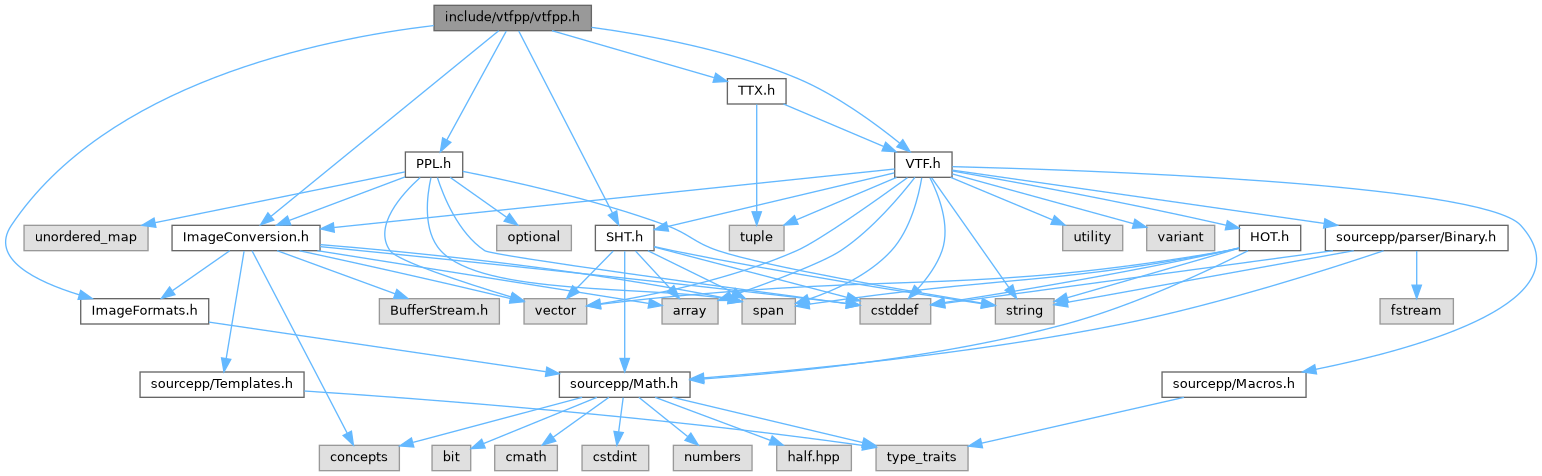
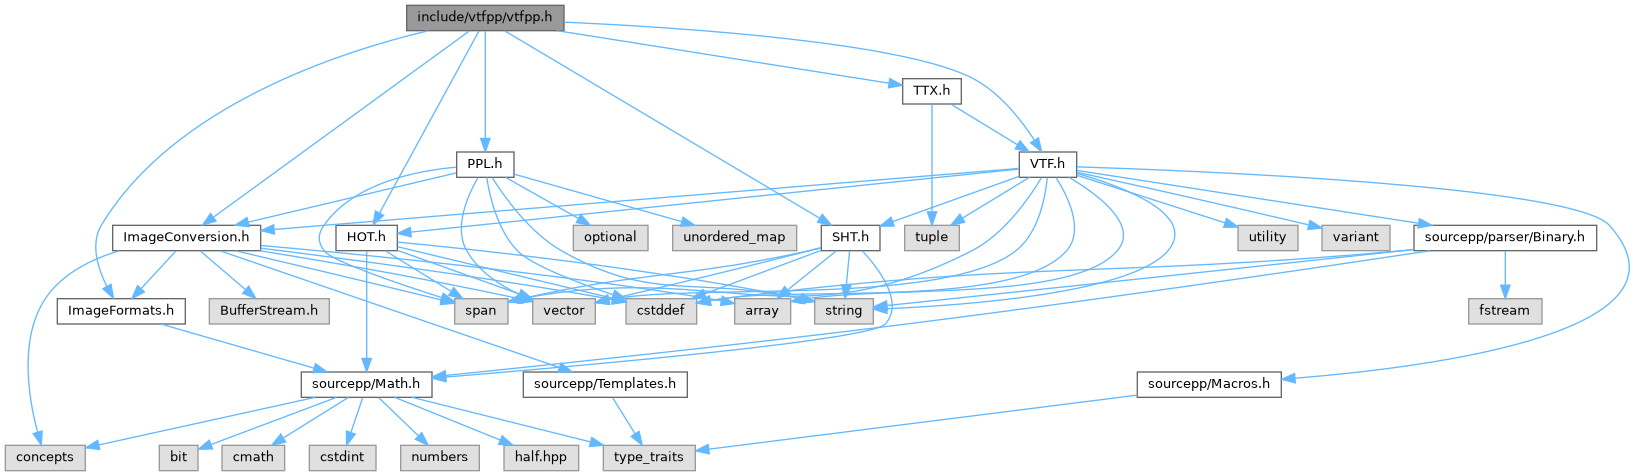
Deploying to docs from @ craftablescience/sourcepp@4739f376240f6d498224bb098dea418825ee65f0 🚀

diff --git a/d3/db3/vtfpp_8h.html b/d3/db3/vtfpp_8h.html
@@ -126,7 +126,8 @@ $(document).ready(function(){initNavTree('d3/db3/vtfpp_8h.html','../../'); initR
   <div class="headertitle"><div class="title">vtfpp.h File Reference</div></div>
 </div><!--header-->
 <div class="contents">
-<div class="textblock"><code>#include &quot;<a class="el" href="../../da/d01/ImageConversion_8h_source.html">ImageConversion.h</a>&quot;</code><br />
+<div class="textblock"><code>#include &quot;<a class="el" href="../../d0/de2/HOT_8h_source.html">HOT.h</a>&quot;</code><br />
+<code>#include &quot;<a class="el" href="../../da/d01/ImageConversion_8h_source.html">ImageConversion.h</a>&quot;</code><br />
 <code>#include &quot;<a class="el" href="../../d1/d2d/ImageFormats_8h_source.html">ImageFormats.h</a>&quot;</code><br />
 <code>#include &quot;<a class="el" href="../../d5/d97/PPL_8h_source.html">PPL.h</a>&quot;</code><br />
 <code>#include &quot;<a class="el" href="../../d0/d51/SHT_8h_source.html">SHT.h</a>&quot;</code><br />
@@ -137,37 +138,37 @@ Include dependency graph for vtfpp.h:</div>
 <div class="dyncontent">
 <div class="center"><img src="../../db/d65/vtfpp_8h__incl.png" border="0" usemap="#ainclude_2vtfpp_2vtfpp_8h" alt=""/></div>
 <map name="ainclude_2vtfpp_2vtfpp_8h" id="ainclude_2vtfpp_2vtfpp_8h">
-<area shape="rect" title=" " alt="" coords="434,5,591,31"/>
-<area shape="rect" href="../../da/d01/ImageConversion_8h.html" title=" " alt="" coords="172,225,320,251"/>
-<area shape="rect" href="../../d1/d2d/ImageFormats_8h.html" title=" " alt="" coords="81,299,209,324"/>
-<area shape="rect" href="../../d5/d97/PPL_8h.html" title=" " alt="" coords="405,152,463,177"/>
-<area shape="rect" href="../../d0/d51/SHT_8h.html" title=" " alt="" coords="595,225,654,251"/>
-<area shape="rect" href="../../d0/d57/TTX_8h.html" title=" " alt="" coords="727,79,786,104"/>
-<area shape="rect" href="../../d4/d91/VTF_8h.html" title=" " alt="" coords="895,152,952,177"/>
-<area shape="rect" title=" " alt="" coords="662,299,718,324"/>
-<area shape="rect" title=" " alt="" coords="319,445,399,471"/>
-<area shape="rect" title=" " alt="" coords="860,299,931,324"/>
-<area shape="rect" title=" " alt="" coords="742,299,795,324"/>
-<area shape="rect" title=" " alt="" coords="524,299,587,324"/>
-<area shape="rect" title=" " alt="" coords="379,299,499,324"/>
-<area shape="rect" href="../../d7/dd4/Templates_8h.html" title=" " alt="" coords="140,372,304,397"/>
-<area shape="rect" title=" " alt="" coords="876,445,968,471"/>
-<area shape="rect" href="../../db/d8a/Math_8h.html" title=" " alt="" coords="559,372,690,397"/>
-<area shape="rect" title=" " alt="" coords="432,445,471,471"/>
-<area shape="rect" title=" " alt="" coords="495,445,557,471"/>
-<area shape="rect" title=" " alt="" coords="582,445,649,471"/>
-<area shape="rect" title=" " alt="" coords="673,445,752,471"/>
-<area shape="rect" title=" " alt="" coords="777,445,851,471"/>
-<area shape="rect" title=" " alt="" coords="497,225,571,251"/>
-<area shape="rect" title=" " alt="" coords="995,299,1054,324"/>
-<area shape="rect" title=" " alt="" coords="24,225,148,251"/>
-<area shape="rect" title=" " alt="" coords="729,225,784,251"/>
-<area shape="rect" title=" " alt="" coords="1063,225,1123,251"/>
-<area shape="rect" title=" " alt="" coords="1147,225,1215,251"/>
-<area shape="rect" href="../../d9/db1/Binary_8h.html" title=" " alt="" coords="1325,225,1508,251"/>
-<area shape="rect" href="../../df/d0a/Macros_8h.html" title=" " alt="" coords="1162,372,1306,397"/>
-<area shape="rect" href="../../d0/de2/HOT_8h.html" title=" " alt="" coords="1239,225,1301,251"/>
-<area shape="rect" title=" " alt="" coords="1380,299,1453,324"/>
+<area shape="rect" title=" " alt="" coords="407,5,564,31"/>
+<area shape="rect" href="../../d0/de2/HOT_8h.html" title=" " alt="" coords="336,225,397,251"/>
+<area shape="rect" href="../../da/d01/ImageConversion_8h.html" title=" " alt="" coords="113,225,261,251"/>
+<area shape="rect" href="../../d1/d2d/ImageFormats_8h.html" title=" " alt="" coords="57,299,185,324"/>
+<area shape="rect" href="../../d5/d97/PPL_8h.html" title=" " alt="" coords="457,152,514,177"/>
+<area shape="rect" href="../../d0/d51/SHT_8h.html" title=" " alt="" coords="821,225,880,251"/>
+<area shape="rect" href="../../d0/d57/TTX_8h.html" title=" " alt="" coords="903,79,961,104"/>
+<area shape="rect" href="../../d4/d91/VTF_8h.html" title=" " alt="" coords="1019,152,1077,177"/>
+<area shape="rect" title=" " alt="" coords="626,299,697,324"/>
+<area shape="rect" title=" " alt="" coords="455,299,508,324"/>
+<area shape="rect" title=" " alt="" coords="815,299,873,324"/>
+<area shape="rect" title=" " alt="" coords="533,299,595,324"/>
+<area shape="rect" href="../../db/d8a/Math_8h.html" title=" " alt="" coords="301,372,432,397"/>
+<area shape="rect" title=" " alt="" coords="159,445,198,471"/>
+<area shape="rect" title=" " alt="" coords="5,445,85,471"/>
+<area shape="rect" title=" " alt="" coords="222,445,285,471"/>
+<area shape="rect" title=" " alt="" coords="309,445,376,471"/>
+<area shape="rect" title=" " alt="" coords="401,445,479,471"/>
+<area shape="rect" title=" " alt="" coords="603,445,695,471"/>
+<area shape="rect" title=" " alt="" coords="504,445,579,471"/>
+<area shape="rect" title=" " alt="" coords="735,299,791,324"/>
+<area shape="rect" title=" " alt="" coords="209,299,329,324"/>
+<area shape="rect" href="../../d7/dd4/Templates_8h.html" title=" " alt="" coords="523,372,687,397"/>
+<area shape="rect" title=" " alt="" coords="573,225,648,251"/>
+<area shape="rect" title=" " alt="" coords="673,225,797,251"/>
+<area shape="rect" title=" " alt="" coords="905,225,959,251"/>
+<area shape="rect" title=" " alt="" coords="1238,225,1298,251"/>
+<area shape="rect" title=" " alt="" coords="1322,225,1390,251"/>
+<area shape="rect" href="../../d9/db1/Binary_8h.html" title=" " alt="" coords="1414,225,1597,251"/>
+<area shape="rect" href="../../df/d0a/Macros_8h.html" title=" " alt="" coords="1137,372,1281,397"/>
+<area shape="rect" title=" " alt="" coords="1469,299,1542,324"/>
 </map>
 </div>
 </div>

diff --git a/d3/db3/vtfpp_8h_source.html b/d3/db3/vtfpp_8h_source.html
@@ -133,12 +133,14 @@ $(document).ready(function(){initNavTree('d3/db3/vtfpp_8h_source.html','../../')
 <div class="line"><a id="l00005" name="l00005"></a><span class="lineno">    5</span><span class="comment"> * include it the same way as any of the other SourcePP libraries.</span></div>
 <div class="line"><a id="l00006" name="l00006"></a><span class="lineno">    6</span><span class="comment"> */</span></div>
 <div class="line"><a id="l00007" name="l00007"></a><span class="lineno">    7</span> </div>
-<div class="line"><a id="l00008" name="l00008"></a><span class="lineno">    8</span><span class="preprocessor">#include &quot;<a class="code" href="../../da/d01/ImageConversion_8h.html">ImageConversion.h</a>&quot;</span></div>
-<div class="line"><a id="l00009" name="l00009"></a><span class="lineno">    9</span><span class="preprocessor">#include &quot;<a class="code" href="../../d1/d2d/ImageFormats_8h.html">ImageFormats.h</a>&quot;</span></div>
-<div class="line"><a id="l00010" name="l00010"></a><span class="lineno">   10</span><span class="preprocessor">#include &quot;<a class="code" href="../../d5/d97/PPL_8h.html">PPL.h</a>&quot;</span></div>
-<div class="line"><a id="l00011" name="l00011"></a><span class="lineno">   11</span><span class="preprocessor">#include &quot;<a class="code" href="../../d0/d51/SHT_8h.html">SHT.h</a>&quot;</span></div>
-<div class="line"><a id="l00012" name="l00012"></a><span class="lineno">   12</span><span class="preprocessor">#include &quot;<a class="code" href="../../d0/d57/TTX_8h.html">TTX.h</a>&quot;</span></div>
-<div class="line"><a id="l00013" name="l00013"></a><span class="lineno">   13</span><span class="preprocessor">#include &quot;<a class="code" href="../../d4/d91/VTF_8h.html">VTF.h</a>&quot;</span></div>
+<div class="line"><a id="l00008" name="l00008"></a><span class="lineno">    8</span><span class="preprocessor">#include &quot;<a class="code" href="../../d0/de2/HOT_8h.html">HOT.h</a>&quot;</span></div>
+<div class="line"><a id="l00009" name="l00009"></a><span class="lineno">    9</span><span class="preprocessor">#include &quot;<a class="code" href="../../da/d01/ImageConversion_8h.html">ImageConversion.h</a>&quot;</span></div>
+<div class="line"><a id="l00010" name="l00010"></a><span class="lineno">   10</span><span class="preprocessor">#include &quot;<a class="code" href="../../d1/d2d/ImageFormats_8h.html">ImageFormats.h</a>&quot;</span></div>
+<div class="line"><a id="l00011" name="l00011"></a><span class="lineno">   11</span><span class="preprocessor">#include &quot;<a class="code" href="../../d5/d97/PPL_8h.html">PPL.h</a>&quot;</span></div>
+<div class="line"><a id="l00012" name="l00012"></a><span class="lineno">   12</span><span class="preprocessor">#include &quot;<a class="code" href="../../d0/d51/SHT_8h.html">SHT.h</a>&quot;</span></div>
+<div class="line"><a id="l00013" name="l00013"></a><span class="lineno">   13</span><span class="preprocessor">#include &quot;<a class="code" href="../../d0/d57/TTX_8h.html">TTX.h</a>&quot;</span></div>
+<div class="line"><a id="l00014" name="l00014"></a><span class="lineno">   14</span><span class="preprocessor">#include &quot;<a class="code" href="../../d4/d91/VTF_8h.html">VTF.h</a>&quot;</span></div>
+<div class="ttc" id="aHOT_8h_html"><div class="ttname"><a href="../../d0/de2/HOT_8h.html">HOT.h</a></div></div>
 <div class="ttc" id="aImageConversion_8h_html"><div class="ttname"><a href="../../da/d01/ImageConversion_8h.html">ImageConversion.h</a></div></div>
 <div class="ttc" id="aImageFormats_8h_html"><div class="ttname"><a href="../../d1/d2d/ImageFormats_8h.html">ImageFormats.h</a></div></div>
 <div class="ttc" id="aPPL_8h_html"><div class="ttname"><a href="../../d5/d97/PPL_8h.html">PPL.h</a></div></div>

diff --git a/d0/de2/HOT_8h.html b/d0/de2/HOT_8h.html
@@ -159,13 +159,13 @@ This graph shows which files directly or indirectly include this file:</div>
 <div class="dyncontent">
 <div class="center"><img src="../../d0/dc5/HOT_8h__dep__incl.png" border="0" usemap="#ainclude_2vtfpp_2HOT_8hdep" alt=""/></div>
 <map name="ainclude_2vtfpp_2HOT_8hdep" id="ainclude_2vtfpp_2HOT_8hdep">
-<area shape="rect" title=" " alt="" coords="203,5,354,31"/>
-<area shape="rect" href="../../d4/d91/VTF_8h.html" title=" " alt="" coords="123,79,269,104"/>
-<area shape="rect" href="../../df/dfb/HOT_8cpp.html" title=" " alt="" coords="294,79,431,104"/>
-<area shape="rect" href="../../d0/d57/TTX_8h.html" title=" " alt="" coords="122,152,270,177"/>
-<area shape="rect" href="../../d3/db3/vtfpp_8h.html" title=" " alt="" coords="5,225,163,251"/>
-<area shape="rect" href="../../dd/d09/VTF_8cpp.html" title=" " alt="" coords="295,152,428,177"/>
-<area shape="rect" href="../../dd/d43/TTX_8cpp.html" title=" " alt="" coords="187,225,322,251"/>
+<area shape="rect" title=" " alt="" coords="324,5,475,31"/>
+<area shape="rect" href="../../d4/d91/VTF_8h.html" title=" " alt="" coords="194,79,341,104"/>
+<area shape="rect" href="../../d3/db3/vtfpp_8h.html" title=" " alt="" coords="270,225,427,251"/>
+<area shape="rect" href="../../df/dfb/HOT_8cpp.html" title=" " alt="" coords="437,79,575,104"/>
+<area shape="rect" href="../../d0/d57/TTX_8h.html" title=" " alt="" coords="5,152,153,177"/>
+<area shape="rect" href="../../dd/d09/VTF_8cpp.html" title=" " alt="" coords="178,152,311,177"/>
+<area shape="rect" href="../../dd/d43/TTX_8cpp.html" title=" " alt="" coords="12,225,147,251"/>
 </map>
 </div>
 </div>
